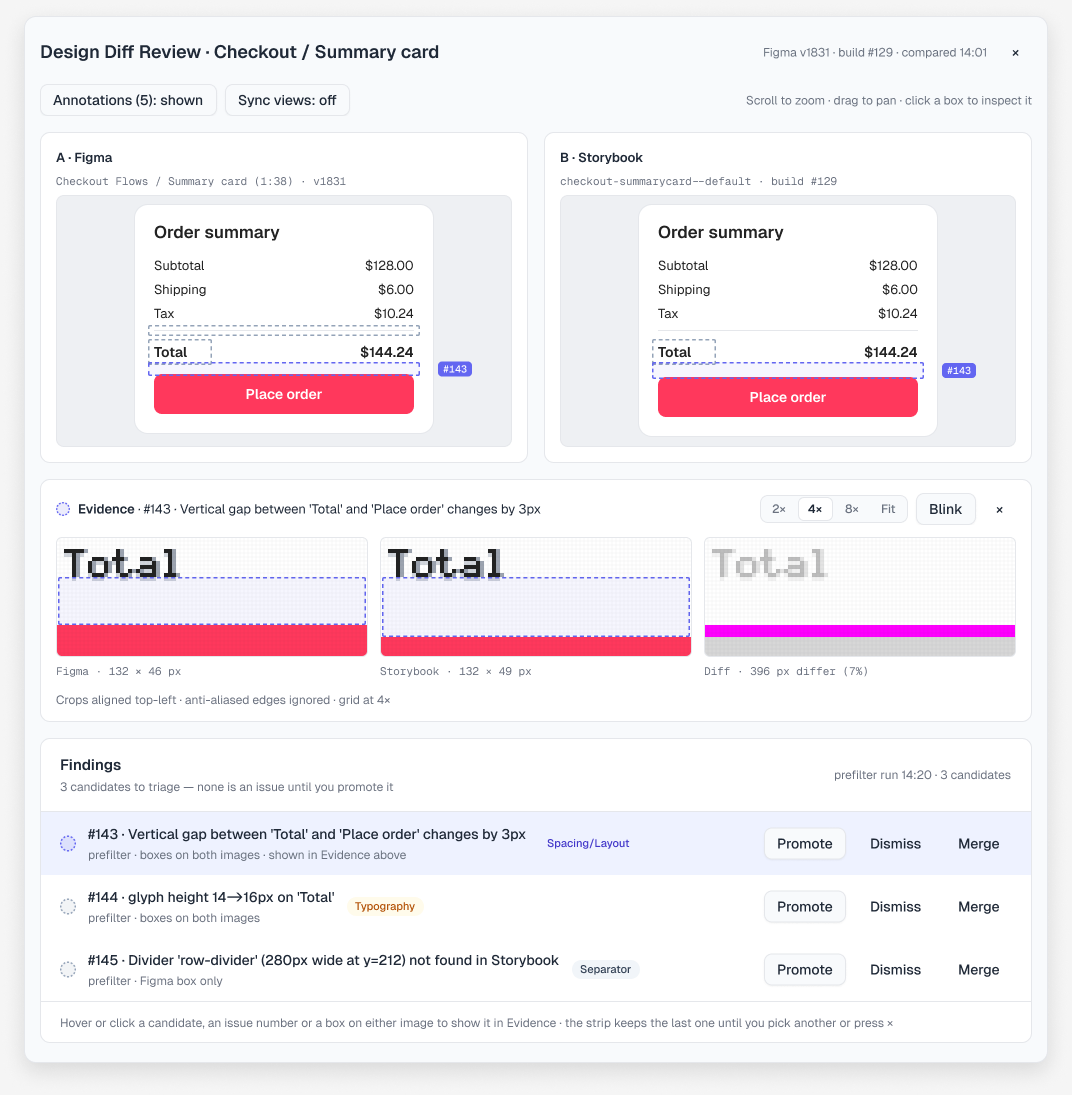
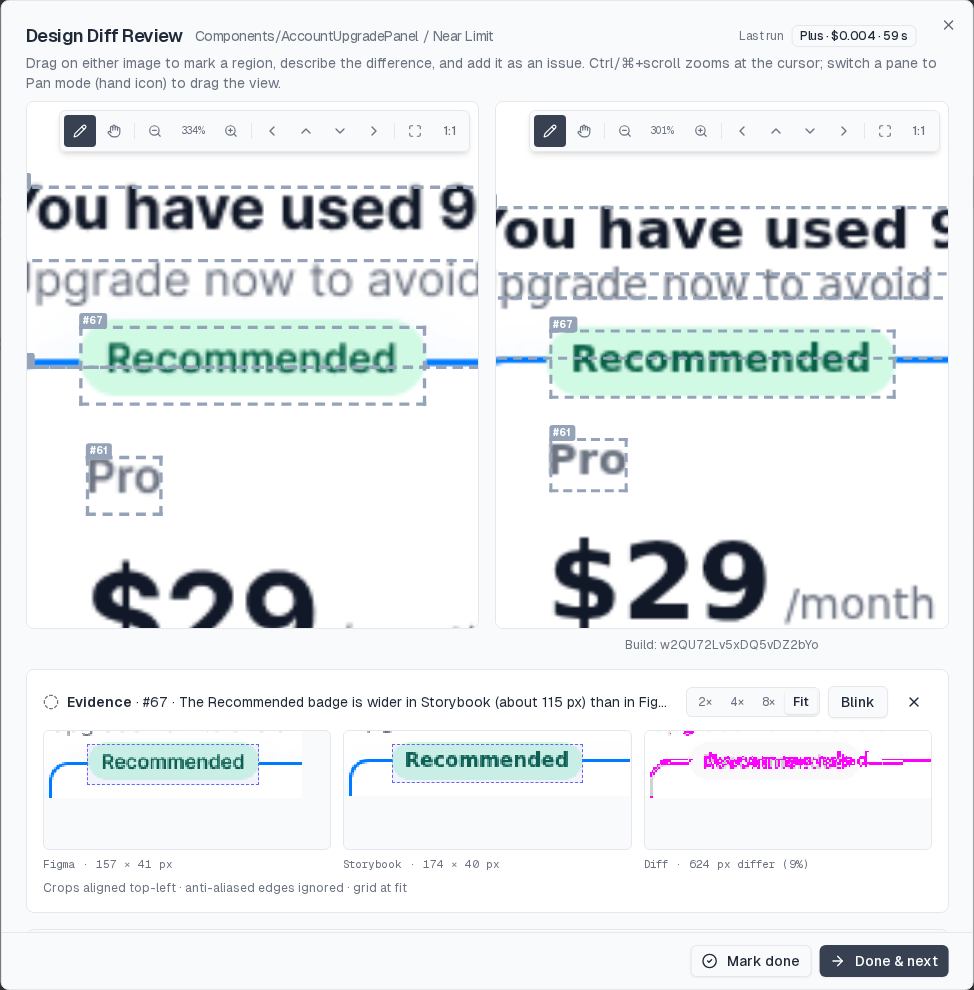
docs: stage capture of the evidence strip
Replaces the Figma design render with a capture from stage
(dashboard b7ff7e2, PR #149): diff editor at a 1024 px viewport, candidate
#67 selected, Evidence strip at Fit with a 624 px diff. The img
width/height attributes follow the new 974 x 990 capture.

diff --git a/services/diff-service/review-model.md b/services/diff-service/review-model.md
@@ -82,7 +82,7 @@ A reviewer claims a pair before working on it. Claims go stale after 180 seconds
 Many findings describe drift too small to see at a glance: *glyph height 14 → 16 px*, *gap changes by 3 px*, *shifted horizontally by 2 px*. In the dashboard's diff editor, the **Evidence** strip under the Figma and Storybook panes shows the pixels behind one finding, so you can check it before you promote or dismiss it. The strip only reads the two screenshots you already have open. It writes nothing and costs nothing.
 
 <figure>
-  <img src="/images/pixel-diff-evidence/evidence-strip.png" alt="Diff editor with a candidate selected: a dashed box on both panes, and below them the Evidence strip with Figma, Storybook and Diff tiles, magnification 2× 4× 8× Fit, and Blink" width="1072" height="1095">
+  <img src="/images/pixel-diff-evidence/evidence-strip.png" alt="Diff editor with a candidate selected: a dashed box on both panes, and below them the Evidence strip with Figma, Storybook and Diff tiles, magnification 2× 4× 8× Fit, and Blink" width="974" height="990">
   <figcaption>The Evidence strip with a candidate selected. Magenta pixels in the Diff tile are the ones that differ.</figcaption>
 </figure>
 
